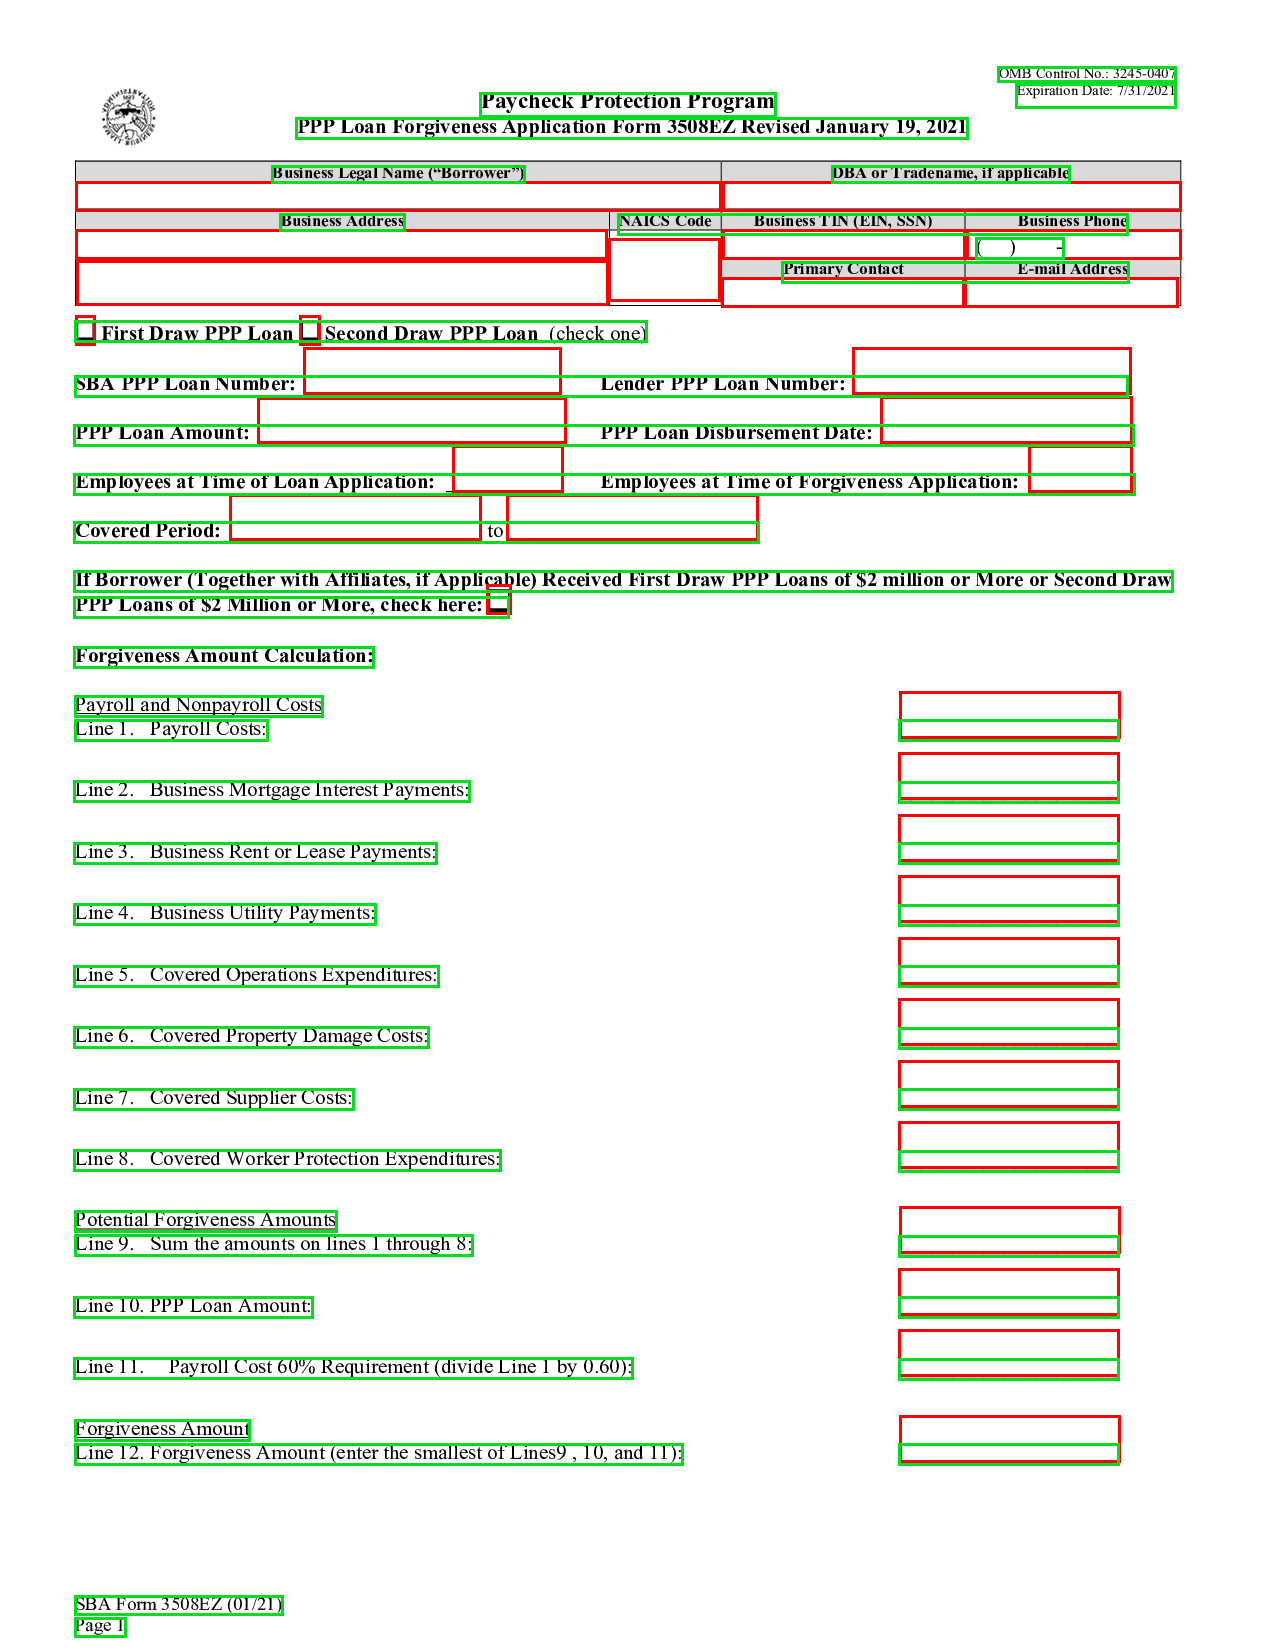
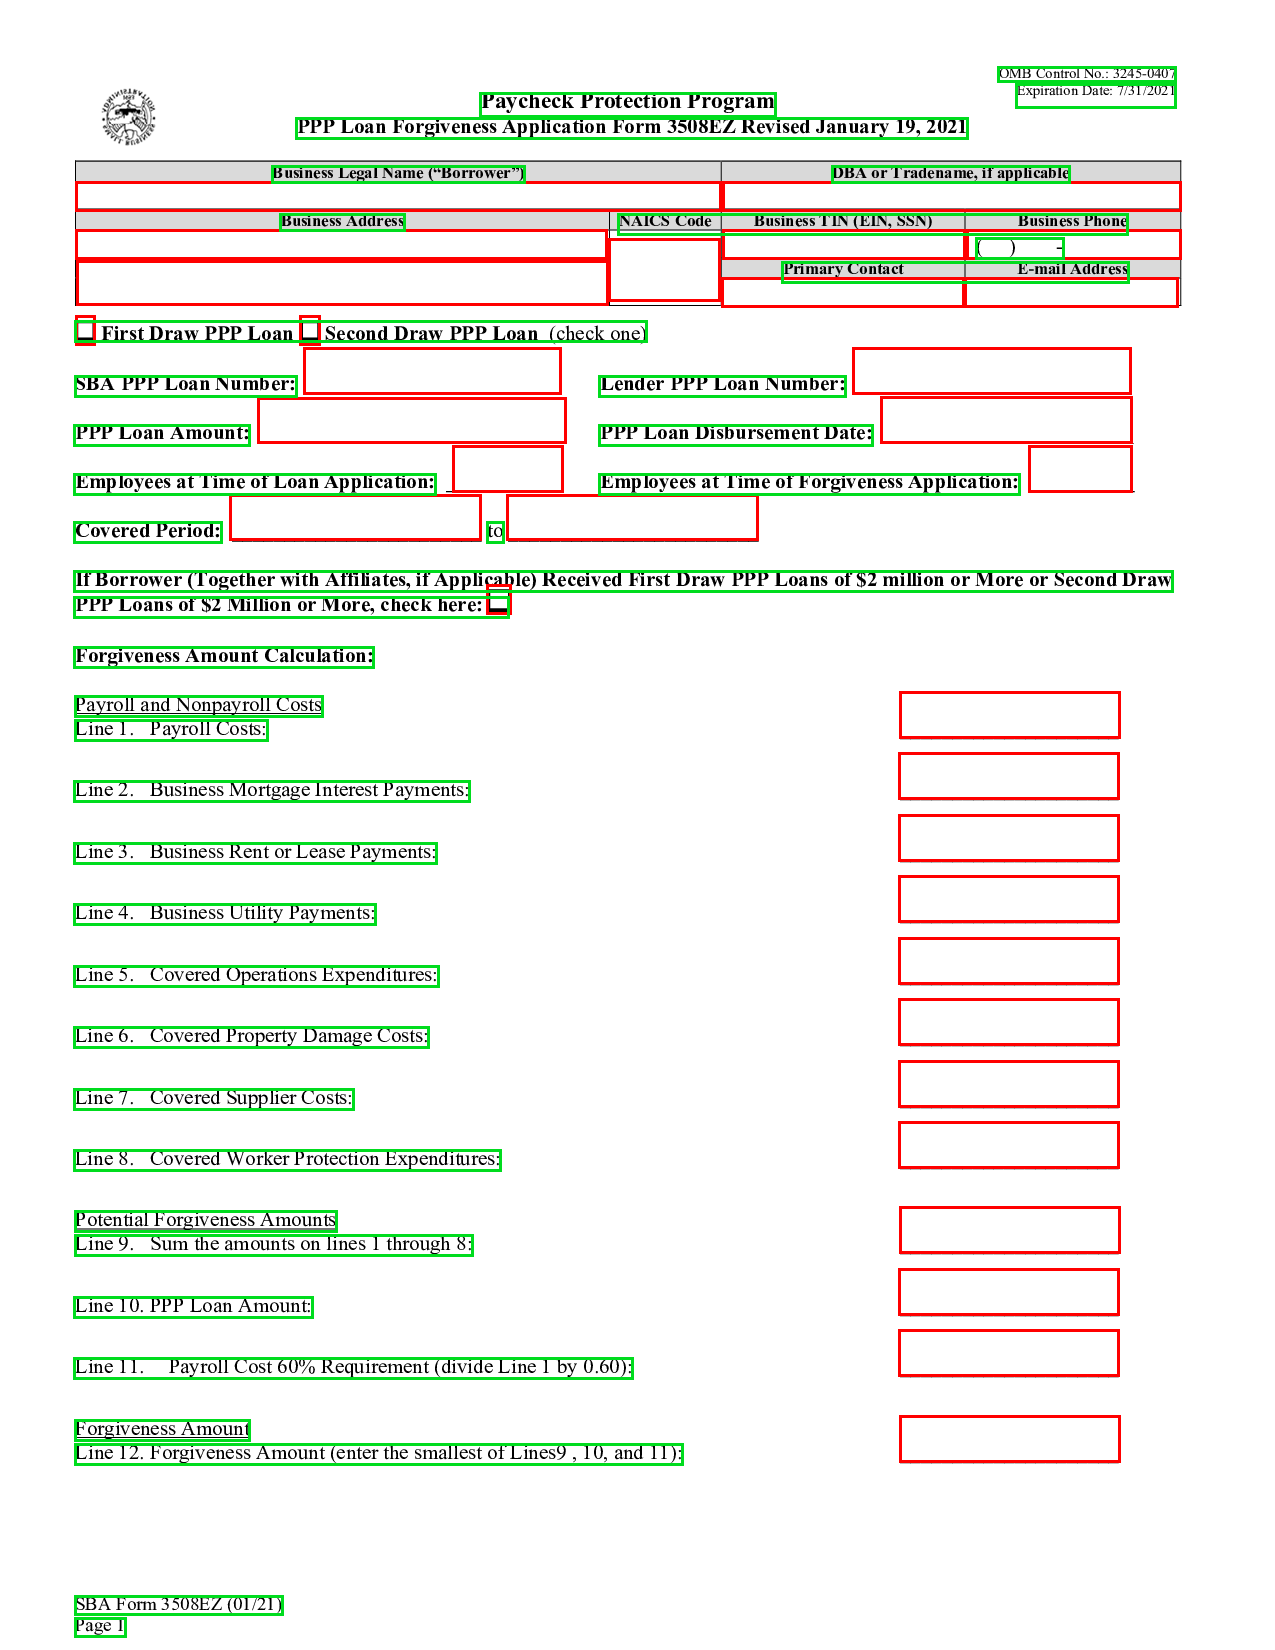
additional work with text bounding boxes

diff --git a/pdf_to_image.py b/pdf_to_image.py
@@ -199,8 +199,8 @@ def draw_bounding_boxes(list, textData, pageWidth, pageHeights):
 				rightX = int(textData[boxIndex][2] * imageWidth)
 				rightY = int((textData[boxIndex][4] * imageHeight) + leftY)
 
-				print("leftX:" + str(leftX) + " ,leftY:" + str(leftY) + ", rightXL:" 
-					+ str(rightX) + " ,rightY:" + str(rightY))
+				#print("leftX:" + str(leftX) + " ,leftY:" + str(leftY) + ", rightXL:" 
+				#	+ str(rightX) + " ,rightY:" + str(rightY))
 
 				img_f.rectangle(img,(leftX, leftY),(rightX, rightY),color=(0,220,30),thickness=3)
 			else:
@@ -263,17 +263,20 @@ def extract_pdf_text(pdfName):
 			#print("the space between '" + word['text'] + "' and '" + lastWord['text'] + "' is "
 			#+ str(word['x0'] - lastWord['x1']))
 			heightsToGapRatio = float(pageHeight) / float(wordHeight) / float(word['x0'] - lastWord['x1'])
+
+			# DO SOME LINE SPACING TESTING TO GARNER MULTILINE TEXT?
 			
 			#print("\t|___.> page height to wordHeight to wordGap ratio is " +
 			#str(heightsToGapRatio))
 
-			if heightsToGapRatio > 1.5: # ratio maybe should be tweaked to better detect word spacing?
-				#print("  CONTINUE an existing bounding box")
-				# continue box... append word, change x1
+			if string_match(word['text']):
+				continue
+			elif heightsToGapRatio > 1.5: # ratio maybe should be tweaked to better detect word spacing?
+				# CONTINUE box... append word, change x1
 				textLine = textLine + " " + word['text']
 				box_x1 = word['x1']
 			else:
-				#print("  CREATE a new bounding box with '" + textLine + "'")
+				# CREATE box
 				boxInfo = (pageNum, (float(box_x0) / float(pageWidth)), (float(box_x1) / float(pageWidth)), 
 						textLine, (float(height) / float(pageHeight)), (float(top) / float(pageHeight)))
 				#boxInfo = pageNum, x0, x1, text, height, top(y)
@@ -294,7 +297,7 @@ def extract_pdf_text(pdfName):
 				#'text': textLine, 'height': float(height) / float(pageHeight)}
 		boxInfo = (pageNum, (float(box_x0) / float(pageWidth)), (float(box_x1) / float(pageWidth)), 
 				textLine, (float(height) / float(pageHeight)), (float(top) / float(pageHeight)))
-		print(boxInfo)
+		#print(boxInfo)
 		boxList.append(boxInfo)
 
 		pageNum += 1
